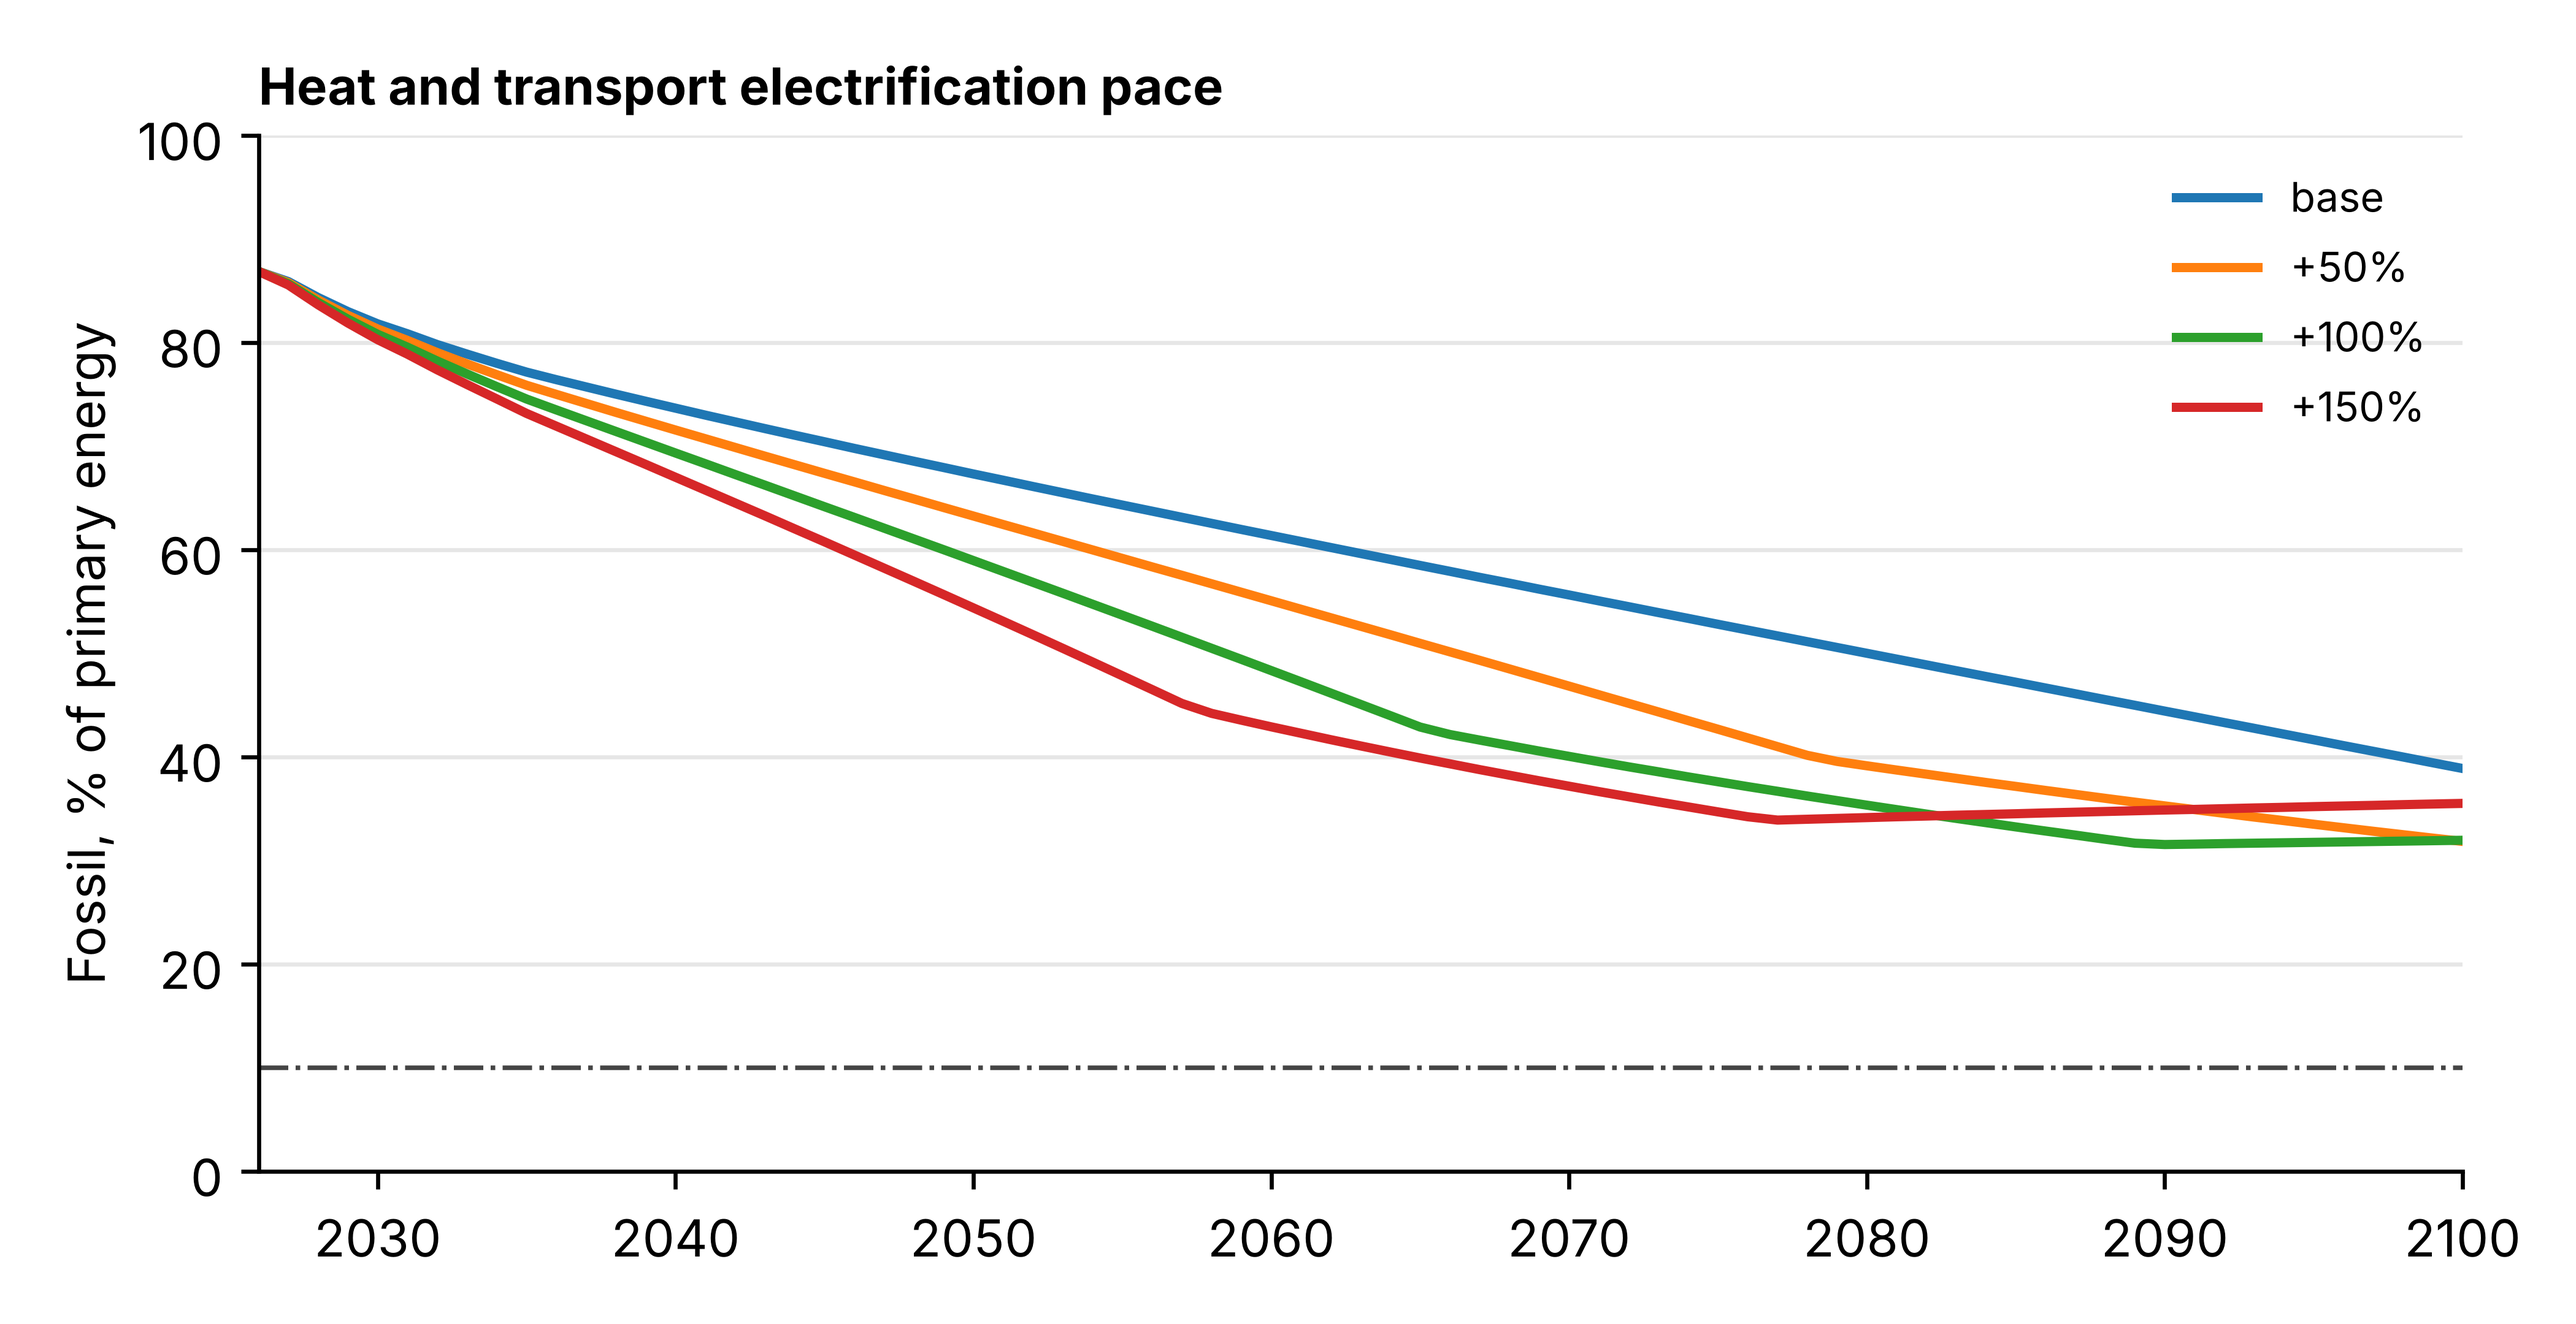
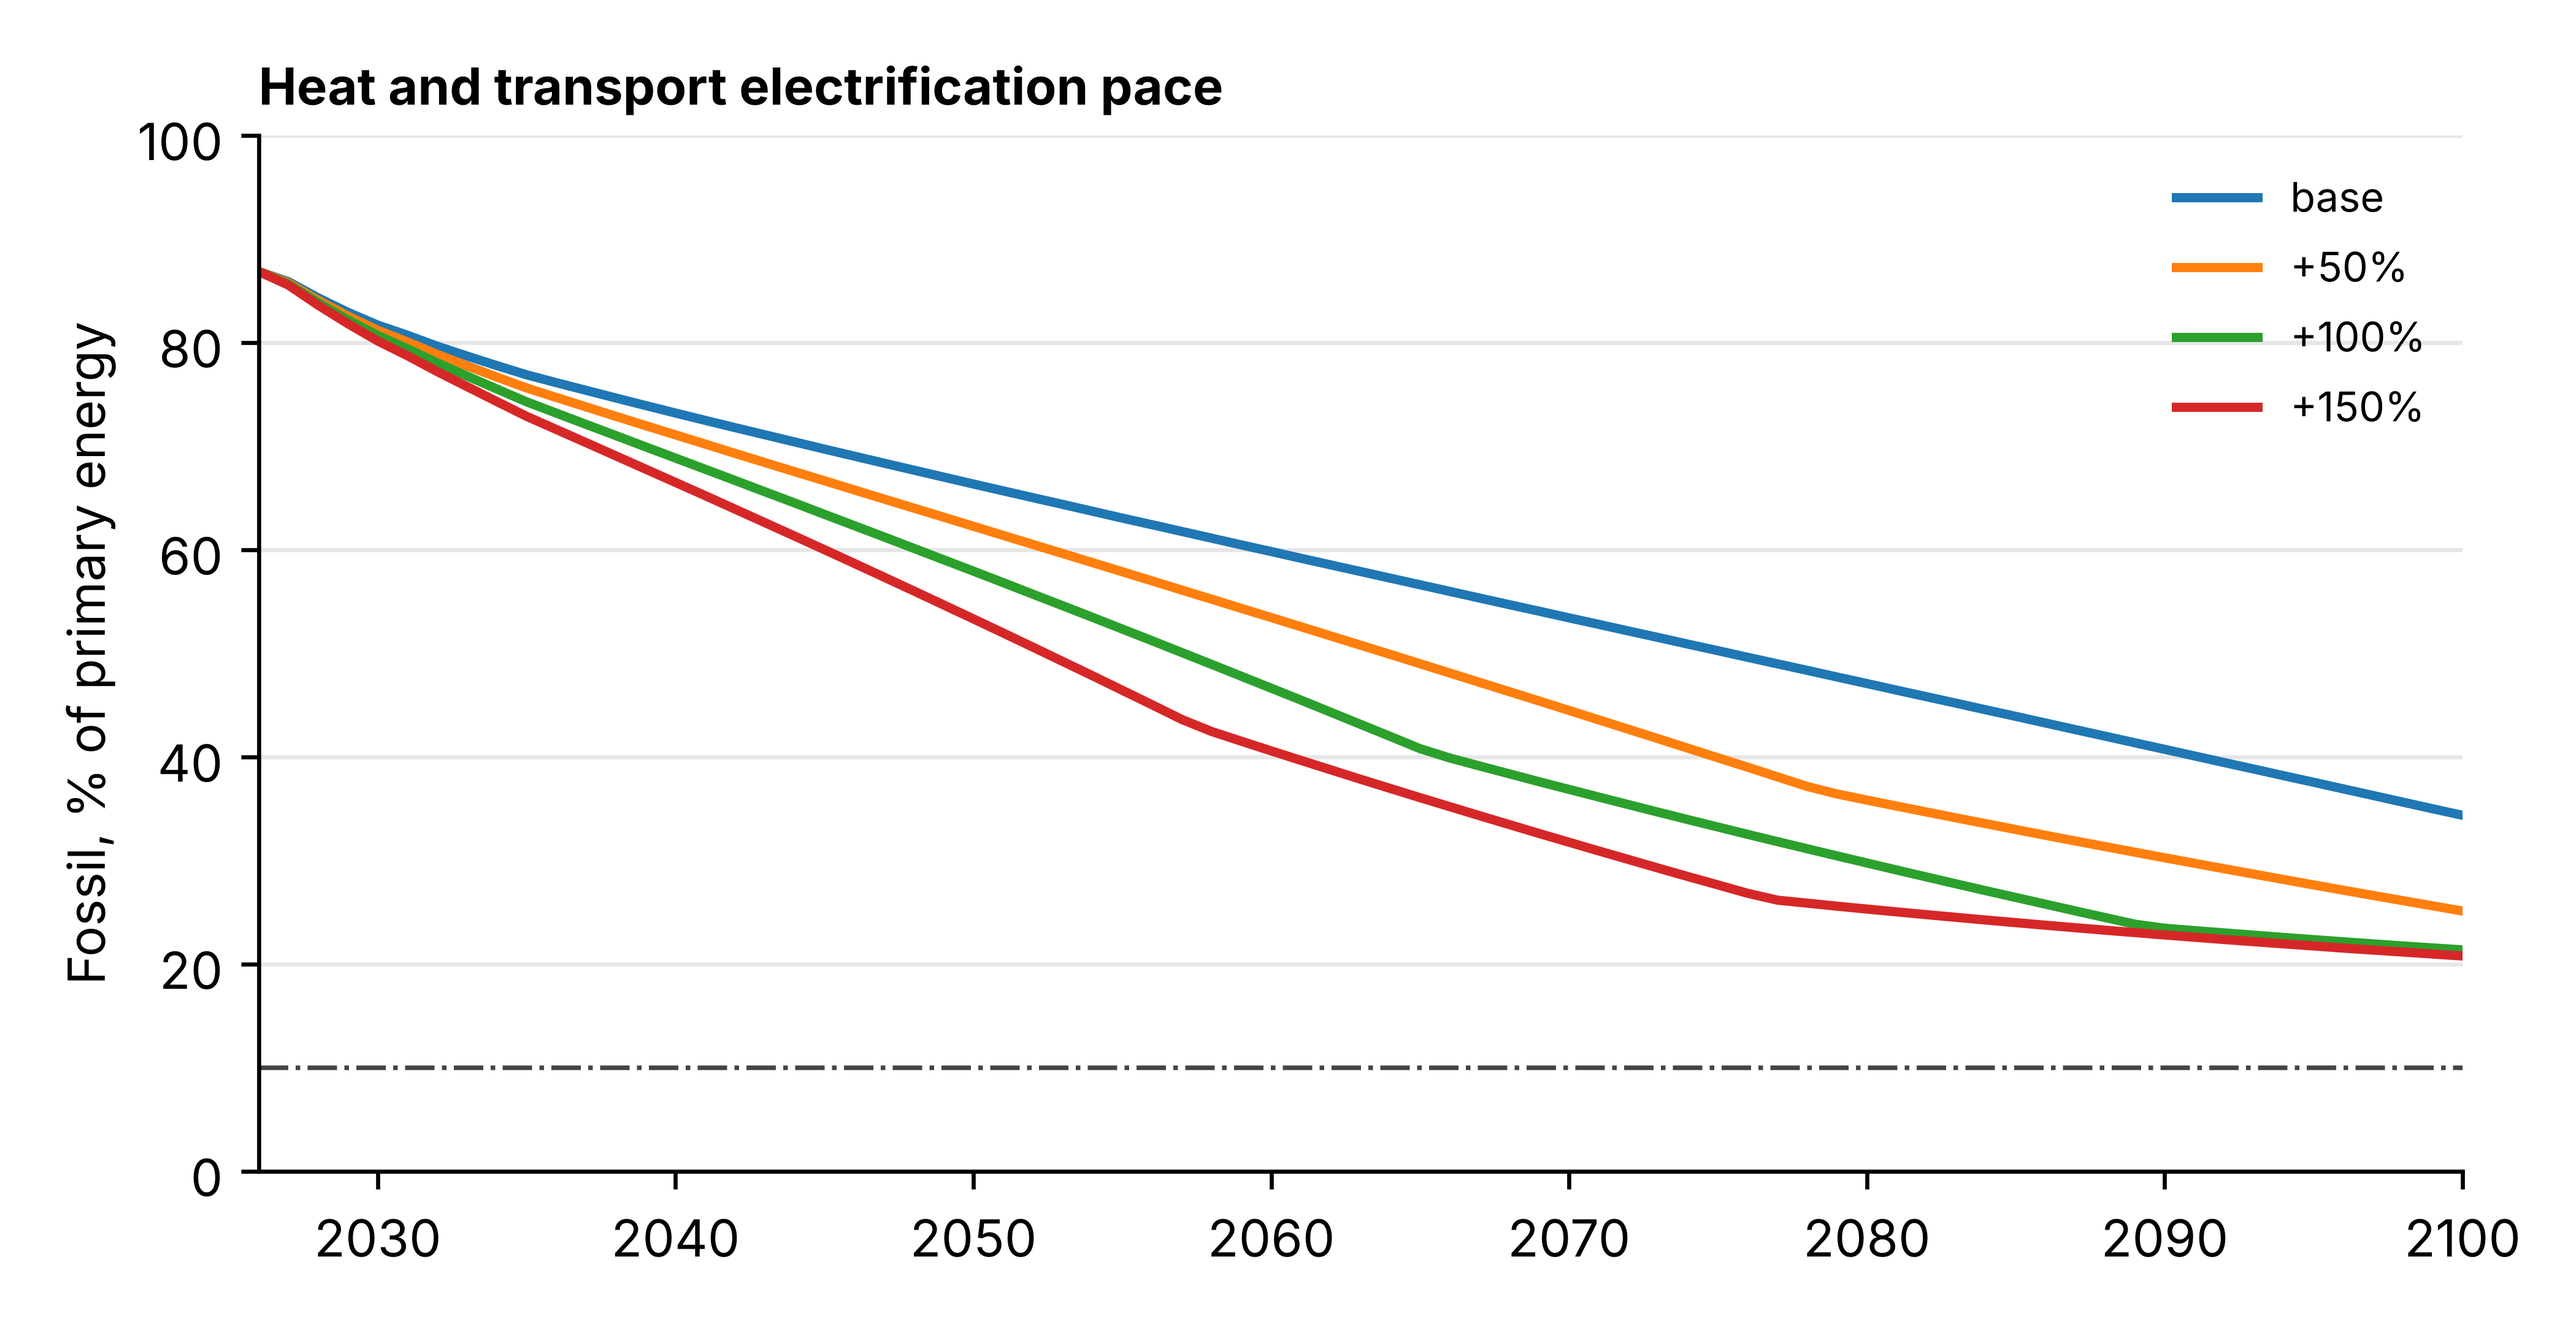
Residual curtailment on the delivered basis by default; sensitivity outputs renamed
The old basis is kept as GAMMA_RESIDUAL_BASIS=available (outputs in analysis/output/sensitivity_available).

Claude-Session: https://claude.ai/code/session_011KZyodWibR39Wz6yBxXJrb

Changed region(s): [[0.1871, 0.2792, 0.9669, 0.7444], [0.156, 0.2481, 0.1871, 0.2792], [0.1248, 0.2171, 0.156, 0.2481]]

diff --git a/Gamma.py b/Gamma.py
@@ -315,8 +315,9 @@ DEFAULT_STORAGE_INITIAL_SOC_PCT = 50.0  # fixed; not a scenario input (affects o
 # Residual ('other') curtailment basis. 'available': kappa x available energy (original; grows without
 # limit as capacity is overbuilt, so delivered output can fall when capacity is added). 'delivered':
 # the same 2026 energy, held as a share of the energy the rules would otherwise deliver, so it can
-# never exceed what is left to curtail. Both give identical 2026 results.
-RESIDUAL_CURTAILMENT_BASIS = os.environ.get('GAMMA_RESIDUAL_BASIS', 'available')
+# never exceed what is left to curtail. Both give identical 2026 results. Default 'delivered' from
+# 30 October 2026 (group decision); set GAMMA_RESIDUAL_BASIS=available to reproduce earlier results.
+RESIDUAL_CURTAILMENT_BASIS = os.environ.get('GAMMA_RESIDUAL_BASIS', 'delivered')
 CHART_DPI = 600  # resolution of saved PNG charts; 600 suits print journals (files are larger, runs slightly slower)
 DEFAULT_PC_STORAGE_HYBRID = 5.0
 

diff --git a/analysis/sensitivity_study.py b/analysis/sensitivity_study.py
@@ -27,9 +27,9 @@ import pandas as pd
 
 HERE = os.path.dirname(os.path.abspath(__file__))
 REPO = os.path.dirname(HERE)
-TAG = os.environ.get('GAMMA_RESIDUAL_BASIS', 'available')
-RUN_DIR = os.path.join(HERE, 'sensitivity_run' + ('' if TAG == 'available' else '_' + TAG))
-OUT = os.path.join(HERE, 'output', 'sensitivity' + ('' if TAG == 'available' else '_' + TAG))
+TAG = os.environ.get('GAMMA_RESIDUAL_BASIS', 'delivered')   # Gamma's default; 'available' is the old basis
+RUN_DIR = os.path.join(HERE, 'sensitivity_run' + ('' if TAG == 'delivered' else '_' + TAG))
+OUT = os.path.join(HERE, 'output', 'sensitivity' + ('' if TAG == 'delivered' else '_' + TAG))
 
 BASE = 'EirGrid_Extended'                 # scenario row the variants are copied from
 FACTORS = (1.5, 2.0, 2.5)                 # +50%, +100%, +150%

diff --git a/analysis/output/sensitivity/sensitivity_tables.md b/analysis/output/sensitivity/sensitivity_tables.md
@@ -2,34 +2,34 @@
 
 | change   |   demand_TWh |   wind_GW |   solar_GW |   fossil_pct |   renewable_pct |   constraint_pct |   curtailment_pct |   wind_cf_pct |   solar_cf_pct |   firm_GW |
 |:---------|-------------:|----------:|-----------:|-------------:|----------------:|-----------------:|------------------:|--------------:|---------------:|----------:|
-| base     |         64.3 |      24.6 |       20.6 |         67.3 |            28.7 |               25 |              19.2 |          16.8 |            4.6 |      12.7 |
-| +50%     |         67.7 |      24.6 |       20.6 |         63.2 |            32.8 |               25 |              17.6 |          17.4 |            4.7 |      13.7 |
-| +100%    |         71   |      24.6 |       20.6 |         59   |            37   |               25 |              16.2 |          18   |            4.8 |      14.7 |
-| +150%    |         74.4 |      24.6 |       20.6 |         54.4 |            41.6 |               25 |              14.8 |          18.4 |            4.9 |      15.7 |
+| base     |         64.3 |      24.6 |       20.6 |         66.3 |            29.7 |               25 |              17.4 |          17.1 |            5.1 |      12.7 |
+| +50%     |         67.7 |      24.6 |       20.6 |         62.3 |            33.7 |               25 |              15.9 |          17.7 |            5.2 |      13.7 |
+| +100%    |         71   |      24.6 |       20.6 |         57.9 |            38.1 |               25 |              14.5 |          18.2 |            5.3 |      14.7 |
+| +150%    |         74.4 |      24.6 |       20.6 |         53.3 |            42.7 |               25 |              13.2 |          18.7 |            5.4 |      15.7 |
 
 ### Heat and transport electrification pace, 2100
 
 | change   |   demand_TWh |   wind_GW |   solar_GW |   fossil_pct |   renewable_pct |   constraint_pct |   curtailment_pct |   wind_cf_pct |   solar_cf_pct |   firm_GW |
 |:---------|-------------:|----------:|-----------:|-------------:|----------------:|-----------------:|------------------:|--------------:|---------------:|----------:|
-| base     |        107.3 |      58.3 |       56.6 |         38.9 |            57.1 |             33.8 |              25.6 |          13   |            2.5 |      21.3 |
-| +50%     |        121.9 |      58.3 |       56.6 |         31.8 |            64.2 |             33.8 |              21.8 |          14.4 |            2.7 |      25.2 |
-| +100%    |        136.6 |      58.3 |       56.6 |         32   |            64   |             33.8 |              18.5 |          15.6 |            2.8 |      28.2 |
-| +150%    |        151.2 |      58.3 |       56.6 |         35.5 |            60.5 |             33.8 |              15.6 |          16.7 |            3   |      30.7 |
+| base     |        107.3 |      58.3 |       56.6 |         34.4 |            61.6 |             33.8 |              23   |          13.5 |            3.1 |      21.3 |
+| +50%     |        112.2 |      58.3 |       56.6 |         25.1 |            70.9 |             33.8 |              21.8 |          13.9 |            3.2 |      23.6 |
+| +100%    |        112.6 |      58.3 |       56.6 |         21.4 |            74.6 |             33.8 |              21.8 |          13.9 |            3.2 |      24.3 |
+| +150%    |        110.5 |      58.3 |       56.6 |         20.8 |            75.2 |             33.8 |              22.4 |          13.7 |            3.1 |      23.9 |
 
 ### Wind, solar and battery build rate, 2050
 
 | change   |   demand_TWh |   wind_GW |   solar_GW |   fossil_pct |   renewable_pct |   constraint_pct |   curtailment_pct |   wind_cf_pct |   solar_cf_pct |   firm_GW |
 |:---------|-------------:|----------:|-----------:|-------------:|----------------:|-----------------:|------------------:|--------------:|---------------:|----------:|
-| base     |         64.3 |      24.6 |       20.6 |         67.3 |            28.7 |             25   |              19.2 |          16.8 |            4.6 |      12.7 |
-| +50%     |         64.3 |      29.7 |       26   |         65.7 |            30.3 |             28.1 |              23.7 |          14.7 |            3.7 |      12.7 |
-| +100%    |         64.3 |      34.7 |       31.4 |         64.7 |            31.3 |             30.5 |              27.4 |          13   |            3   |      12.6 |
-| +150%    |         64.3 |      39.8 |       36.8 |         64.1 |            31.9 |             32.5 |              30.3 |          11.6 |            2.5 |      12.5 |
+| base     |         64.3 |      24.6 |       20.6 |         66.3 |            29.7 |             25   |              17.4 |          17.1 |            5.1 |      12.7 |
+| +50%     |         64.3 |      29.7 |       26   |         64.2 |            31.8 |             28.1 |              21.6 |          15.1 |            4.3 |      12.7 |
+| +100%    |         64.3 |      34.7 |       31.4 |         62.6 |            33.4 |             30.5 |              24.9 |          13.4 |            3.7 |      12.6 |
+| +150%    |         64.3 |      39.8 |       36.8 |         61.5 |            34.5 |             32.5 |              27.6 |          12.1 |            3.2 |      12.5 |
 
 ### Wind, solar and battery build rate, 2100
 
 | change   |   demand_TWh |   wind_GW |   solar_GW |   fossil_pct |   renewable_pct |   constraint_pct |   curtailment_pct |   wind_cf_pct |   solar_cf_pct |   firm_GW |
 |:---------|-------------:|----------:|-----------:|-------------:|----------------:|-----------------:|------------------:|--------------:|---------------:|----------:|
-| base     |        107.3 |      58.3 |       56.6 |         38.9 |            57.1 |             33.8 |              25.6 |          13   |            2.5 |      21.3 |
-| +50%     |        107.3 |      80.2 |       80.1 |         36.8 |            59.2 |             38   |              31.9 |          10   |            1.5 |      20.9 |
-| +100%    |        107.3 |     102   |      103.6 |         37.6 |            58.4 |             40.8 |              35.9 |           8   |            0.9 |      20.6 |
-| +150%    |        107.3 |     123.9 |      127   |         39.5 |            56.5 |             42.9 |              38.5 |           6.6 |            0.6 |      20.2 |
+| base     |        107.3 |      58.3 |       56.6 |         34.4 |            61.6 |             33.8 |              23   |          13.5 |            3.1 |      21.3 |
+| +50%     |        107.3 |      80.2 |       80.1 |         29   |            67   |             38   |              28.8 |          10.5 |            2.2 |      20.9 |
+| +100%    |        107.3 |     102   |      103.6 |         26.4 |            69.6 |             40.8 |              32.4 |           8.7 |            1.7 |      20.6 |
+| +150%    |        107.3 |     123.9 |      127   |         25.2 |            70.8 |             42.9 |              34.8 |           7.4 |            1.4 |      20.2 |

diff --git a/analysis/output/sensitivity_available/sensitivity_tables.md b/analysis/output/sensitivity_available/sensitivity_tables.md
@@ -1,0 +1,35 @@
+### Heat and transport electrification pace, 2050
+
+| change   |   demand_TWh |   wind_GW |   solar_GW |   fossil_pct |   renewable_pct |   constraint_pct |   curtailment_pct |   wind_cf_pct |   solar_cf_pct |   firm_GW |
+|:---------|-------------:|----------:|-----------:|-------------:|----------------:|-----------------:|------------------:|--------------:|---------------:|----------:|
+| base     |         64.3 |      24.6 |       20.6 |         67.3 |            28.7 |               25 |              19.2 |          16.8 |            4.6 |      12.7 |
+| +50%     |         67.7 |      24.6 |       20.6 |         63.2 |            32.8 |               25 |              17.6 |          17.4 |            4.7 |      13.7 |
+| +100%    |         71   |      24.6 |       20.6 |         59   |            37   |               25 |              16.2 |          18   |            4.8 |      14.7 |
+| +150%    |         74.4 |      24.6 |       20.6 |         54.4 |            41.6 |               25 |              14.8 |          18.4 |            4.9 |      15.7 |
+
+### Heat and transport electrification pace, 2100
+
+| change   |   demand_TWh |   wind_GW |   solar_GW |   fossil_pct |   renewable_pct |   constraint_pct |   curtailment_pct |   wind_cf_pct |   solar_cf_pct |   firm_GW |
+|:---------|-------------:|----------:|-----------:|-------------:|----------------:|-----------------:|------------------:|--------------:|---------------:|----------:|
+| base     |        107.3 |      58.3 |       56.6 |         38.9 |            57.1 |             33.8 |              25.6 |          13   |            2.5 |      21.3 |
+| +50%     |        121.9 |      58.3 |       56.6 |         31.8 |            64.2 |             33.8 |              21.8 |          14.4 |            2.7 |      25.2 |
+| +100%    |        136.6 |      58.3 |       56.6 |         32   |            64   |             33.8 |              18.5 |          15.6 |            2.8 |      28.2 |
+| +150%    |        151.2 |      58.3 |       56.6 |         35.5 |            60.5 |             33.8 |              15.6 |          16.7 |            3   |      30.7 |
+
+### Wind, solar and battery build rate, 2050
+
+| change   |   demand_TWh |   wind_GW |   solar_GW |   fossil_pct |   renewable_pct |   constraint_pct |   curtailment_pct |   wind_cf_pct |   solar_cf_pct |   firm_GW |
+|:---------|-------------:|----------:|-----------:|-------------:|----------------:|-----------------:|------------------:|--------------:|---------------:|----------:|
+| base     |         64.3 |      24.6 |       20.6 |         67.3 |            28.7 |             25   |              19.2 |          16.8 |            4.6 |      12.7 |
+| +50%     |         64.3 |      29.7 |       26   |         65.7 |            30.3 |             28.1 |              23.7 |          14.7 |            3.7 |      12.7 |
+| +100%    |         64.3 |      34.7 |       31.4 |         64.7 |            31.3 |             30.5 |              27.4 |          13   |            3   |      12.6 |
+| +150%    |         64.3 |      39.8 |       36.8 |         64.1 |            31.9 |             32.5 |              30.3 |          11.6 |            2.5 |      12.5 |
+
+### Wind, solar and battery build rate, 2100
+
+| change   |   demand_TWh |   wind_GW |   solar_GW |   fossil_pct |   renewable_pct |   constraint_pct |   curtailment_pct |   wind_cf_pct |   solar_cf_pct |   firm_GW |
+|:---------|-------------:|----------:|-----------:|-------------:|----------------:|-----------------:|------------------:|--------------:|---------------:|----------:|
+| base     |        107.3 |      58.3 |       56.6 |         38.9 |            57.1 |             33.8 |              25.6 |          13   |            2.5 |      21.3 |
+| +50%     |        107.3 |      80.2 |       80.1 |         36.8 |            59.2 |             38   |              31.9 |          10   |            1.5 |      20.9 |
+| +100%    |        107.3 |     102   |      103.6 |         37.6 |            58.4 |             40.8 |              35.9 |           8   |            0.9 |      20.6 |
+| +150%    |        107.3 |     123.9 |      127   |         39.5 |            56.5 |             42.9 |              38.5 |           6.6 |            0.6 |      20.2 |
